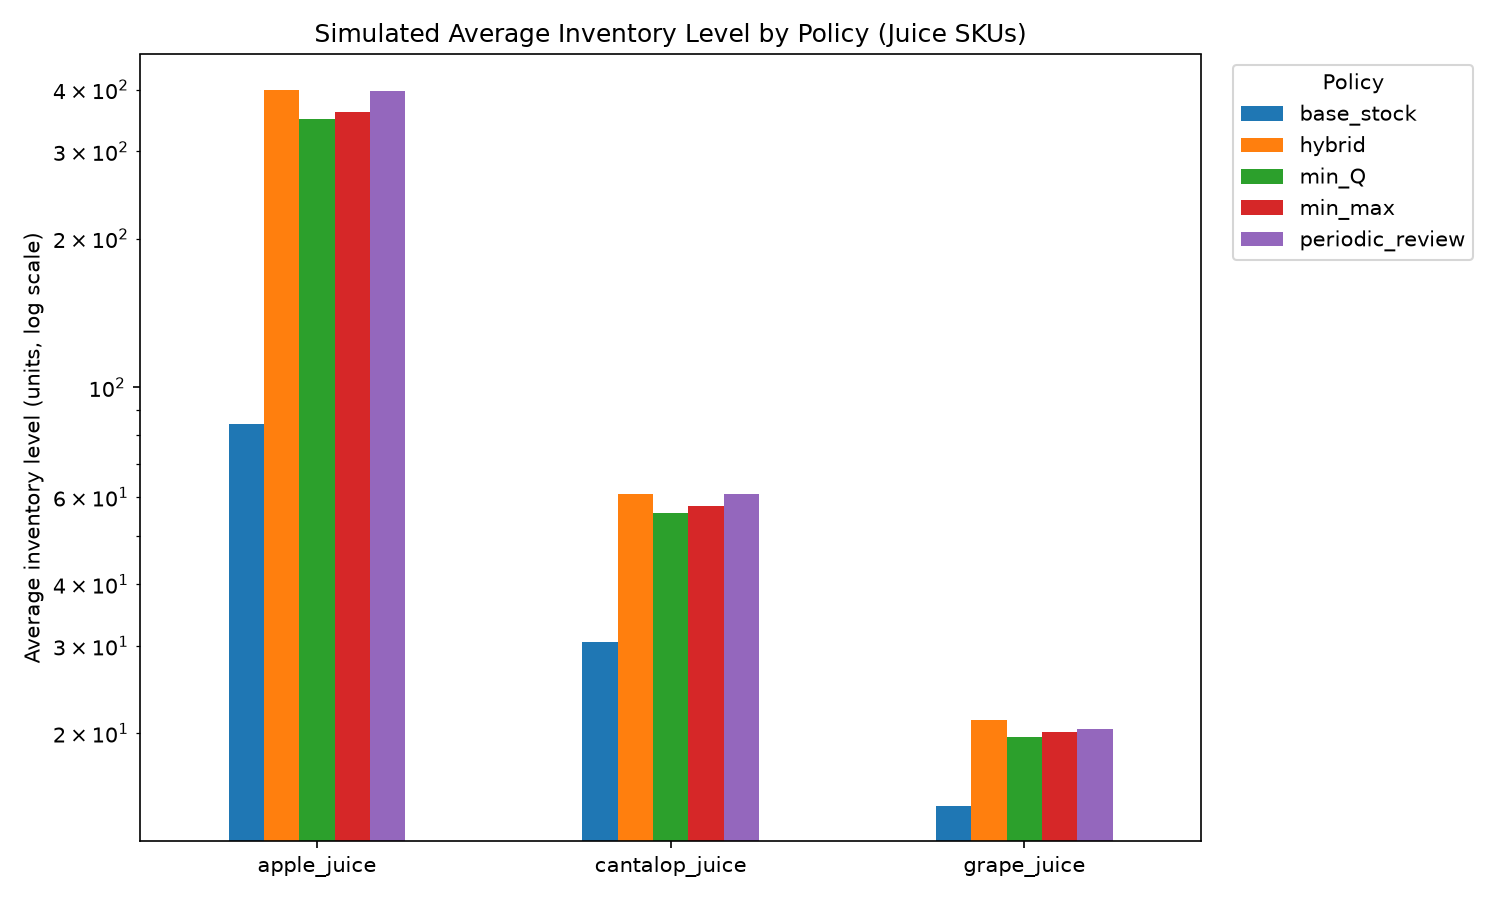
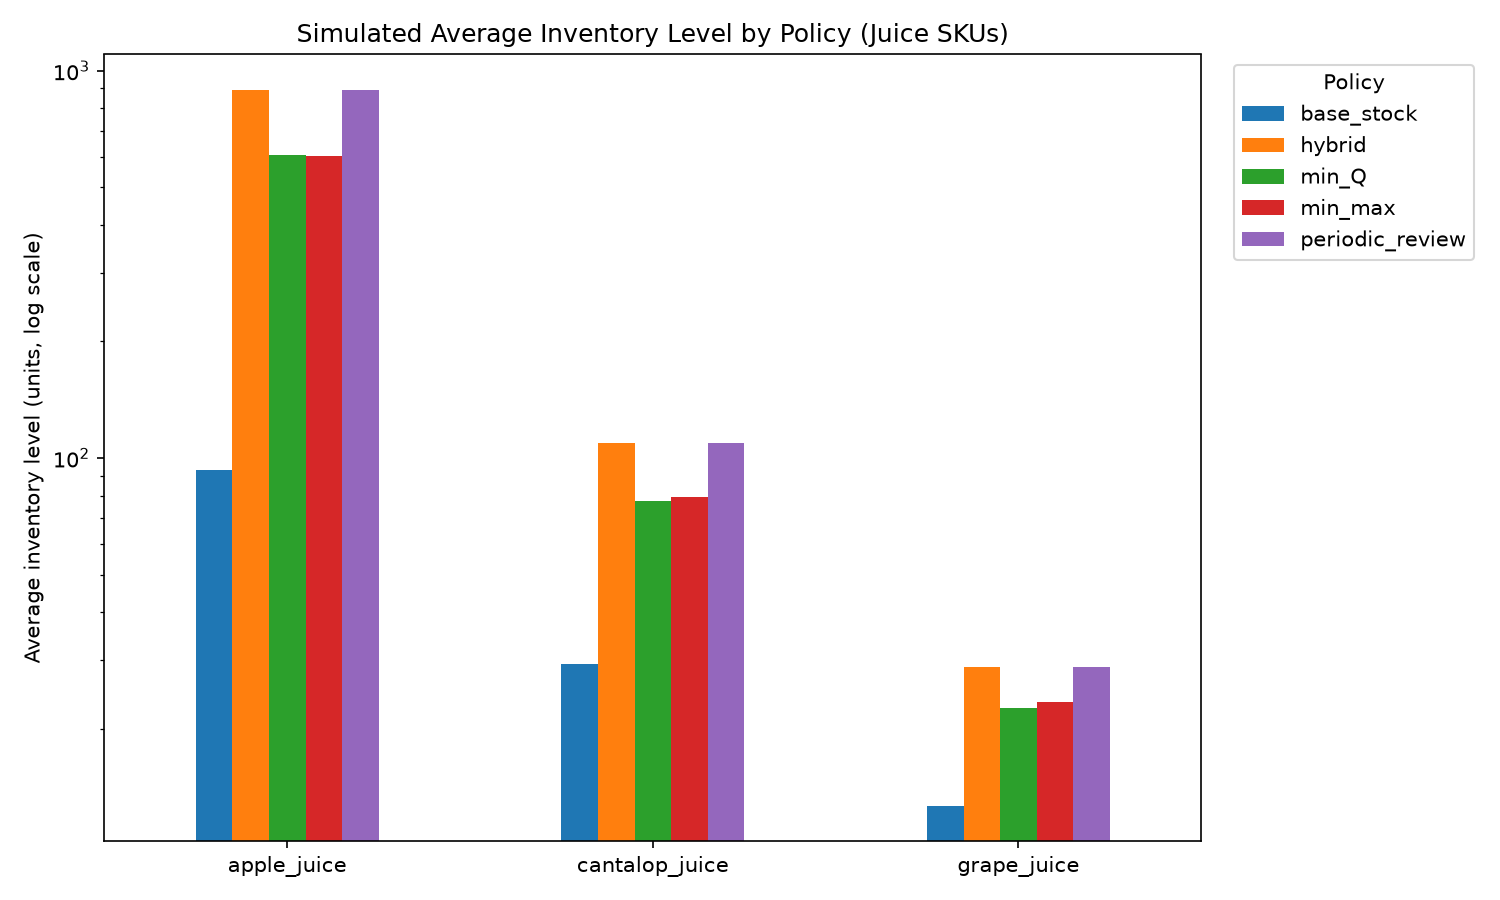
Pull juice_policy_simulation's config from inventory_planning.Config
Lead time, target service level, and ordering/holding cost now come
from the same Config dataclass policy_simulation.py already draws from,
instead of a second set of hardcoded module constants. Only data_path
stays local (Config's points at Germany.xlsx, a different schema).

sku_distributions.csv has no price column, so holding_rate (a % of item
value) needs a per-unit price to convert into a $/unit/day cost the way
policy_simulation.py does with each SKU's real avg_unit_price -- added
ASSUMED_UNIT_PRICE as an explicit, documented placeholder for that one
missing input.

Claude-Session: https://claude.ai/code/session_01PuQGhsXGrswm3MZPfpZUFY

diff --git a/src/juice_policy_simulation.py b/src/juice_policy_simulation.py
@@ -10,6 +10,13 @@ SKU shares the same lead time/service level/costs (a fair comparison by
 construction), and results are written as one CSV plus two comparison
 charts instead of ad hoc per-call CSVs and a single messy time-series plot.
 
+Lead time, service level, and cost assumptions come from
+inventory_planning.Config, the same as policy_simulation.py -- one shared
+set of business placeholders across every pipeline in this repo instead of
+a second copy of the same numbers. DATA_PATH stays local: Config.data_path
+points at Germany.xlsx, a different dataset with a different schema, so it
+isn't reusable here the way the cost/lead-time assumptions are.
+
 Two real bugs in section16.py are fixed here rather than carried over:
 1. `skus[['apple_juice']]` / `skus[['cantalop_juice']]` (double brackets)
    select a DataFrame instead of a Series, which crashes `inventorize`
@@ -41,22 +48,20 @@ import numpy as np
 import pandas as pd
 from scipy.stats import norm, poisson
 
+from inventory_planning import Config
+
 logging.basicConfig(level=logging.INFO, format="%(asctime)s %(levelname)s %(message)s")
 logger = logging.getLogger("juice_policy_simulation")
 
 DATA_PATH = Path("data/sku_distributions.csv")
-OUTPUT_DIR = Path("output")
-
-LEAD_TIME_DAYS = 7
-SERVICE_LEVEL = 0.9
 REVIEW_PERIOD_DAYS = 7
 
-# Not present in the data -- same category of placeholder used throughout
-# this project's other pipelines (ordering_cost_per_order / holding_rate in
-# inventory_planning.py). section16.py's own calls ranged from 1 to 100;
-# these match its final (most deliberate) comparison block.
-ORDERING_COST = 100
-INVENTORY_COST = 1
+# sku_distributions.csv has no price column, so Config.holding_rate (a % of
+# item value per year) has no per-unit value to apply to -- unlike
+# policy_simulation.py, which multiplies it by each SKU's real
+# avg_unit_price. This placeholder stands in for that missing price so the
+# same holding_rate can still convert into a $/unit/day inventory cost.
+ASSUMED_UNIT_PRICE = 1.0
 
 # SKUs averaging fewer than this many units/day get the Poisson model
 # (appropriate for low, intermittent counts); at or above it, Normal.
@@ -103,8 +108,12 @@ def compute_policy_parameters(demand: np.ndarray, leadtime: int, service_level: 
     }
 
 
-def run_policies_for_sku(sku_name: str, demand: np.ndarray, is_poisson: bool) -> list[dict]:
-    params = compute_policy_parameters(demand, LEAD_TIME_DAYS, SERVICE_LEVEL, is_poisson)
+def run_policies_for_sku(sku_name: str, demand: np.ndarray, is_poisson: bool, config: Config) -> list[dict]:
+    leadtime = config.lead_time_days
+    service_level = config.default_service_level
+    inventory_cost_per_unit_day = config.holding_rate * ASSUMED_UNIT_PRICE / 365
+
+    params = compute_policy_parameters(demand, leadtime, service_level, is_poisson)
     logger.info(
         "%s: mean=%.2f sd=%.2f model=%s reorder_point=%d order_qty=%d order_up_to=%d",
         sku_name, params["mean"], params["sd"], "Poisson" if is_poisson else "Normal",
@@ -113,11 +122,11 @@ def run_policies_for_sku(sku_name: str, demand: np.ndarray, is_poisson: bool) ->
 
     common = dict(
         demand=demand,
-        leadtime=LEAD_TIME_DAYS,
-        service_level=SERVICE_LEVEL,
+        leadtime=leadtime,
+        service_level=service_level,
         shortage_cost=1,
-        ordering_cost=ORDERING_COST,
-        inventory_cost=INVENTORY_COST,
+        ordering_cost=config.ordering_cost_per_order,
+        inventory_cost=inventory_cost_per_unit_day,
     )
     reorder_point, order_qty, order_up_to = params["reorder_point"], params["order_qty"], params["order_up_to"]
 
@@ -147,7 +156,7 @@ def run_policies_for_sku(sku_name: str, demand: np.ndarray, is_poisson: bool) ->
                 "sku": sku_name,
                 "demand_model": "Poisson" if is_poisson else "Normal",
                 "policy": policy,
-                "target_service_level": SERVICE_LEVEL,
+                "target_service_level": service_level,
                 "reorder_point_used": reorder_point,
                 "order_qty_or_max_used": order_qty if policy == "min_Q" else order_up_to,
                 **metrics,
@@ -165,7 +174,7 @@ def save_plots(results: pd.DataFrame, output_dir: Path) -> None:
     ax.set_title("Simulated Item Fill Rate by Policy (Juice SKUs)")
     ax.set_ylabel("Item fill rate")
     ax.set_xlabel("")
-    ax.axhline(SERVICE_LEVEL, color="black", linestyle="--", linewidth=1, label="target service level")
+    ax.axhline(results["target_service_level"].iloc[0], color="black", linestyle="--", linewidth=1, label="target service level")
     ax.legend(title="Policy", bbox_to_anchor=(1.02, 1), loc="upper left")
     ax.tick_params(axis="x", rotation=0)
     fig.tight_layout()
@@ -188,6 +197,7 @@ def save_plots(results: pd.DataFrame, output_dir: Path) -> None:
 
 
 def main() -> None:
+    config = Config()
     skus = load_sku_demand(DATA_PATH)
     sku_columns = ["apple_juice", "grape_juice", "cantalop_juice"]
 
@@ -195,15 +205,16 @@ def main() -> None:
     for sku_name in sku_columns:
         demand = skus[sku_name].to_numpy()
         is_poisson = demand.mean() < POISSON_MEAN_THRESHOLD
-        all_rows.extend(run_policies_for_sku(sku_name, demand, is_poisson))
+        all_rows.extend(run_policies_for_sku(sku_name, demand, is_poisson, config))
 
     results = pd.DataFrame(all_rows)
-    OUTPUT_DIR.mkdir(parents=True, exist_ok=True)
-    csv_path = OUTPUT_DIR / "juice_policy_simulation.csv"
+    output_dir = config.output_dir
+    output_dir.mkdir(parents=True, exist_ok=True)
+    csv_path = output_dir / "juice_policy_simulation.csv"
     results.to_csv(csv_path, index=False)
     logger.info("Saved %s", csv_path)
 
-    save_plots(results, OUTPUT_DIR)
+    save_plots(results, output_dir)
 
     summary_cols = ["sku", "demand_model", "policy", "target_service_level", "Item_fill_rate", "cycle_service_level", "average_inventory_level", "total_lost_sales"]
     logger.info("Results:\n%s", results[summary_cols].round(3).to_string(index=False))

diff --git a/README.md b/README.md
@@ -129,7 +129,18 @@ python3 src/juice_policy_simulation.py
   on `cantalop_juice`. Fixed to single-bracket Series selection.
 - **Fair-comparison fix**: the original's final comparison mixed
   `leadtime=7` for one policy with `leadtime=2` for the other four in the
-  same table. Every policy here shares one `LEAD_TIME_DAYS`.
+  same table. Every policy here shares one lead time.
+- **Shared config, like `policy_simulation.py`**: lead time, target
+  service level, and ordering/holding cost all come from
+  `inventory_planning.Config` — the same shared business-assumption
+  placeholders used across every pipeline in this repo, instead of a
+  second hardcoded copy of the same numbers living in this file. Only
+  `Config.data_path` isn't reused (it points at `Germany.xlsx`, a
+  different dataset with a different schema). Since
+  `sku_distributions.csv` has no price column, `Config.holding_rate`
+  (a % of item value) is applied to a placeholder `ASSUMED_UNIT_PRICE`
+  instead of a real `avg_unit_price` — flagged in the code as an
+  additional placeholder specific to this script.
 - **Parameters are derived, not hand-picked**: the original hardcoded
   `Quantity`/`Max`/`Min`/`Base` per call (e.g. `Max=400`), and two of
   those five configurations turned out to silently miss their own stated
